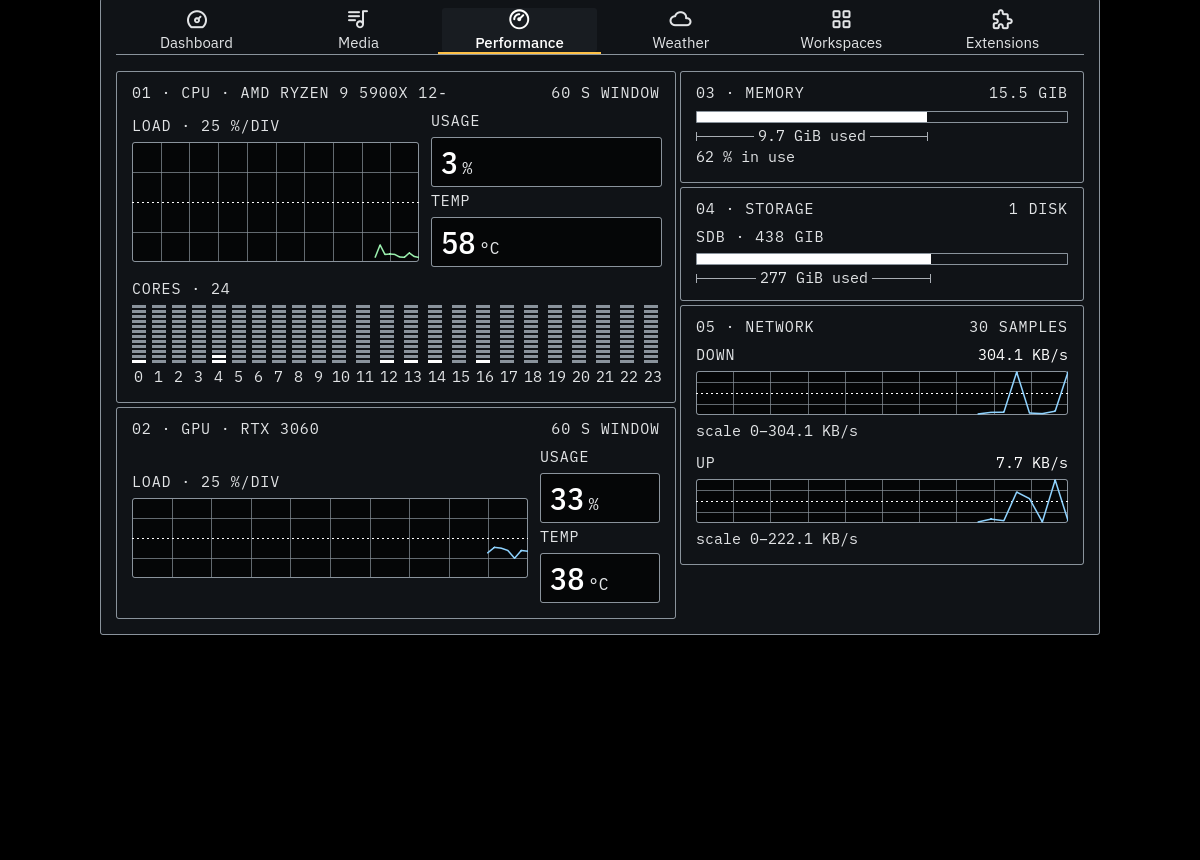
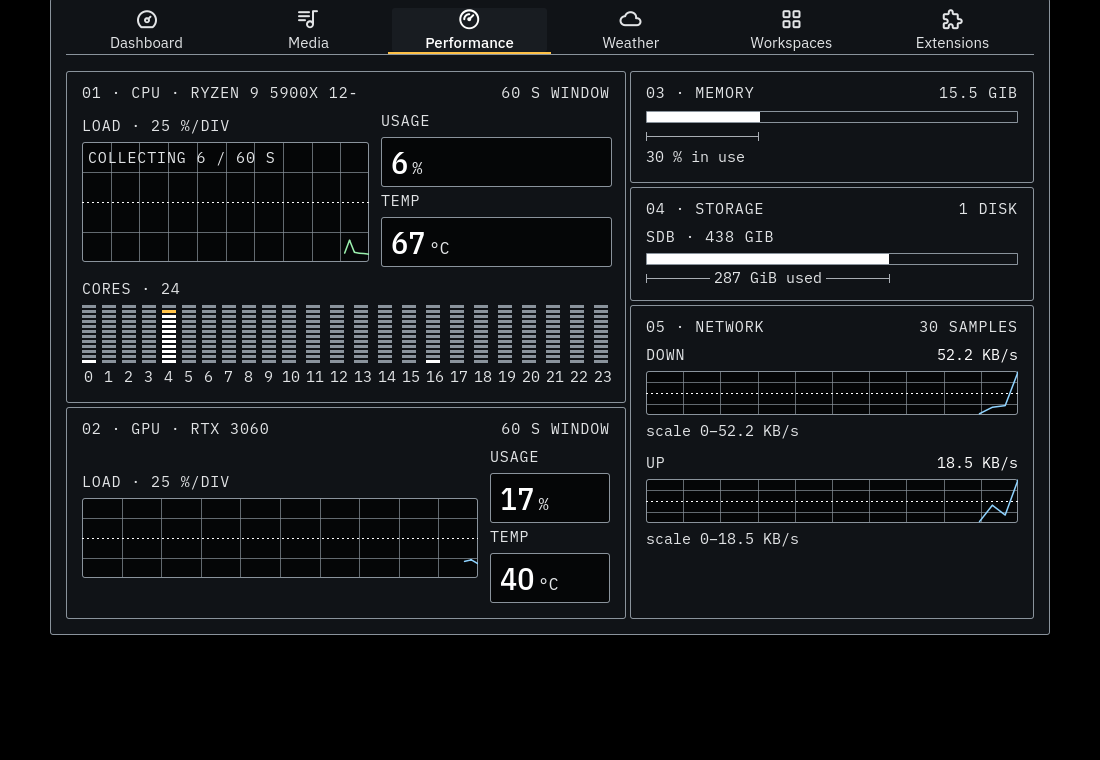
fix(dashboard): scopes say collecting, readable CPU name, level columns, one-line idle media

Changed region(s): [[0.0618, 0.0, 0.9273, 0.7868], [0.5255, 0.7263, 0.5564, 0.7566]]

diff --git a/modules/dashboard/Performance.qml b/modules/dashboard/Performance.qml
@@ -74,6 +74,13 @@ Item {
         }
     }
 
+    // Hardware names are long: drop the vendor, trademark marks and the
+    // trailing core-count/"Processor" words so the model stays readable.
+    function shortName(name: string): string {
+        const s = String(name).replace(/\((R|TM|tm|r)\)/g, "").replace(/\s+\d+-(Core Processor)?$/i, "").replace(/\s+Processor$/i, "").replace(/^(AMD|Intel|NVIDIA)\s+/i, "").replace(/\s+/g, " ").trim();
+        return s === "" ? String(name) : s;
+    }
+
     Instruments.Frame {
         id: placeholder
 
@@ -114,7 +121,7 @@ Item {
             Layout.minimumWidth: 560
             Layout.preferredWidth: 560
             Layout.maximumWidth: 560
-            Layout.alignment: Qt.AlignTop
+            Layout.fillHeight: true
             visible: root.hasLeft
             spacing: Appearance.spacing.small
 
@@ -123,9 +130,12 @@ Item {
                 Layout.fillWidth: true
 
                 visible: root.anyCpu
+                // The last frame of each column absorbs spare height so both
+                // columns end on the same line.
+                Layout.fillHeight: !root.anyGpu
                 implicitHeight: headerHeight + cpuBody.implicitHeight + 16
                 channel: "01"
-                title: SystemUsage.cpuName ? qsTr("CPU · %1").arg(SystemUsage.cpuName) : qsTr("CPU")
+                title: SystemUsage.cpuName ? qsTr("CPU · %1").arg(root.shortName(SystemUsage.cpuName)) : qsTr("CPU")
                 context: qsTr("%1 s window").arg(root.windowSeconds)
 
                 ColumnLayout {
@@ -154,6 +164,7 @@ Item {
                                 samples: cpuBuffer.samples
                                 persistence: cpuBuffer.persistence
                                 window: cpuBuffer.length
+                                secondsPerSample: Experience.telemetryIntervalMs / 1000
                                 glow: Experience.glow
                                 scanlines: Experience.scanlines
 
@@ -242,9 +253,10 @@ Item {
                 Layout.fillWidth: true
 
                 visible: root.anyGpu
+                Layout.fillHeight: true
                 implicitHeight: headerHeight + gpuBody.implicitHeight + 16
                 channel: "02"
-                title: SystemUsage.gpuName ? qsTr("GPU · %1").arg(SystemUsage.gpuName) : qsTr("GPU")
+                title: SystemUsage.gpuName ? qsTr("GPU · %1").arg(root.shortName(SystemUsage.gpuName)) : qsTr("GPU")
                 context: qsTr("%1 s window").arg(root.windowSeconds)
 
                 RowLayout {
@@ -269,6 +281,7 @@ Item {
                             samples: gpuBuffer.samples
                             persistence: gpuBuffer.persistence
                             window: gpuBuffer.length
+                            secondsPerSample: Experience.telemetryIntervalMs / 1000
                             traceColor: Signal.palette.cue
                             scanlines: Experience.scanlines
 
@@ -306,7 +319,7 @@ Item {
 
         ColumnLayout {
             Layout.fillWidth: true
-            Layout.alignment: Qt.AlignTop
+            Layout.fillHeight: true
             visible: root.hasRight
             spacing: Appearance.spacing.small
 
@@ -315,6 +328,7 @@ Item {
                 Layout.fillWidth: true
 
                 visible: root.anyMem
+                Layout.fillHeight: !root.anyStorage && !root.anyNet && !root.anyBattery
                 implicitHeight: headerHeight + memBody.implicitHeight + 16
                 channel: "03"
                 title: qsTr("Memory")
@@ -352,6 +366,7 @@ Item {
                 Layout.fillWidth: true
 
                 visible: root.anyStorage
+                Layout.fillHeight: !root.anyNet && !root.anyBattery
                 implicitHeight: headerHeight + diskBody.implicitHeight + 16
                 channel: "04"
                 title: qsTr("Storage")
@@ -407,6 +422,7 @@ Item {
                 Layout.fillWidth: true
 
                 visible: root.anyNet
+                Layout.fillHeight: !root.anyBattery
                 implicitHeight: headerHeight + netBody.implicitHeight + 16
                 channel: "05"
                 title: qsTr("Network")
@@ -438,6 +454,7 @@ Item {
                 Layout.fillWidth: true
 
                 visible: root.anyBattery
+                Layout.fillHeight: true
                 implicitHeight: headerHeight + batteryBody.implicitHeight + 16
                 channel: "06"
                 title: qsTr("Battery")

diff --git a/modules/dashboard/Media.qml b/modules/dashboard/Media.qml
@@ -54,14 +54,38 @@ Item {
 
         anchors.left: parent.left
         anchors.right: parent.right
-        implicitHeight: headerHeight + deck.implicitHeight + 16
+        implicitHeight: headerHeight + (root.hasPlayer ? deck.implicitHeight : idle.implicitHeight) + 16
         channel: "01"
         title: qsTr("Playback")
         context: root.hasPlayer ? Players.getIdentity(root.player) : qsTr("No player")
 
+        // No player: one honest line instead of an empty deck.
+        RowLayout {
+            id: idle
+
+            anchors.left: parent.left
+            anchors.right: parent.right
+            visible: !root.hasPlayer
+            spacing: Appearance.spacing.normal
+
+            Glyph {
+                name: "music-off"
+                color: Signal.palette.inkMuted
+                font.pointSize: Appearance.font.size.larger
+            }
+
+            StyledText {
+                Layout.fillWidth: true
+                text: qsTr("Nothing playing. Start a player and its controls appear here.")
+                color: Signal.palette.inkMuted
+                elide: Text.ElideRight
+            }
+        }
+
         RowLayout {
             id: deck
 
+            visible: root.hasPlayer
             anchors.left: parent.left
             anchors.right: parent.right
             spacing: Appearance.spacing.large

diff --git a/modules/instruments/ScopeTrace.qml b/modules/instruments/ScopeTrace.qml
@@ -20,6 +20,10 @@ Well {
     property color traceColor: Signal.palette.phosphor
     property bool glow: false
     property bool scanlines: false
+    // Seconds one sample covers; when set (> 0) a trace with fewer samples
+    // than the window says `COLLECTING 12 / 60 S` instead of looking broken.
+    property real secondsPerSample: 0
+    readonly property bool collecting: secondsPerSample > 0 && samples.length < window
     readonly property bool glowWanted: glow && !Signal.light && !Config.appearance.highContrast && root.visible && samples.length > 1
     // Glow is rationed shell-wide (visual language §9): a trace without a
     // lease renders the same line without the halo.
@@ -164,5 +168,14 @@ Well {
                 path: root.points(root.samples, shape.width, shape.height)
             }
         }
+    }
+
+    Eyebrow {
+        visible: root.collecting
+        anchors.left: parent.left
+        anchors.top: parent.top
+        anchors.margins: 6
+        label: qsTr("Collecting %1 / %2 s").arg(Math.round(root.samples.length * root.secondsPerSample)).arg(Math.round(root.window * root.secondsPerSample))
+        Accessible.ignored: true
     }
 }

diff --git a/tests/test_dashboard_performance_polish.py b/tests/test_dashboard_performance_polish.py
@@ -1,0 +1,35 @@
+"""Dashboard Performance polish (VA-13): honest scopes, readable names,
+level column bottoms, one-line idle Media."""
+from pathlib import Path
+
+ROOT = Path(__file__).resolve().parent.parent
+
+
+def _src(rel: str) -> str:
+    return (ROOT / rel).read_text()
+
+
+def test_scopes_say_collecting_until_the_window_is_full():
+    scope = _src("modules/instruments/ScopeTrace.qml")
+    assert "samples.length < window" in scope and "Collecting %1 / %2 s" in scope
+    perf = _src("modules/dashboard/Performance.qml")
+    assert perf.count("secondsPerSample: Experience.telemetryIntervalMs / 1000") == 2
+
+
+def test_long_hardware_names_are_shortened_not_cut():
+    perf = _src("modules/dashboard/Performance.qml")
+    assert "function shortName(name: string)" in perf
+    assert "root.shortName(SystemUsage.cpuName)" in perf and "root.shortName(SystemUsage.gpuName)" in perf
+
+
+def test_columns_end_on_the_same_line():
+    perf = _src("modules/dashboard/Performance.qml")
+    assert "Layout.fillHeight: !root.anyGpu" in perf
+    assert "Layout.fillHeight: !root.anyBattery" in perf
+    assert perf.count("Layout.alignment: Qt.AlignTop\n            visible: root.has") == 0
+
+
+def test_idle_media_is_one_line():
+    media = _src("modules/dashboard/Media.qml")
+    assert "visible: !root.hasPlayer" in media and "visible: root.hasPlayer" in media
+    assert "root.hasPlayer ? deck.implicitHeight : idle.implicitHeight" in media
